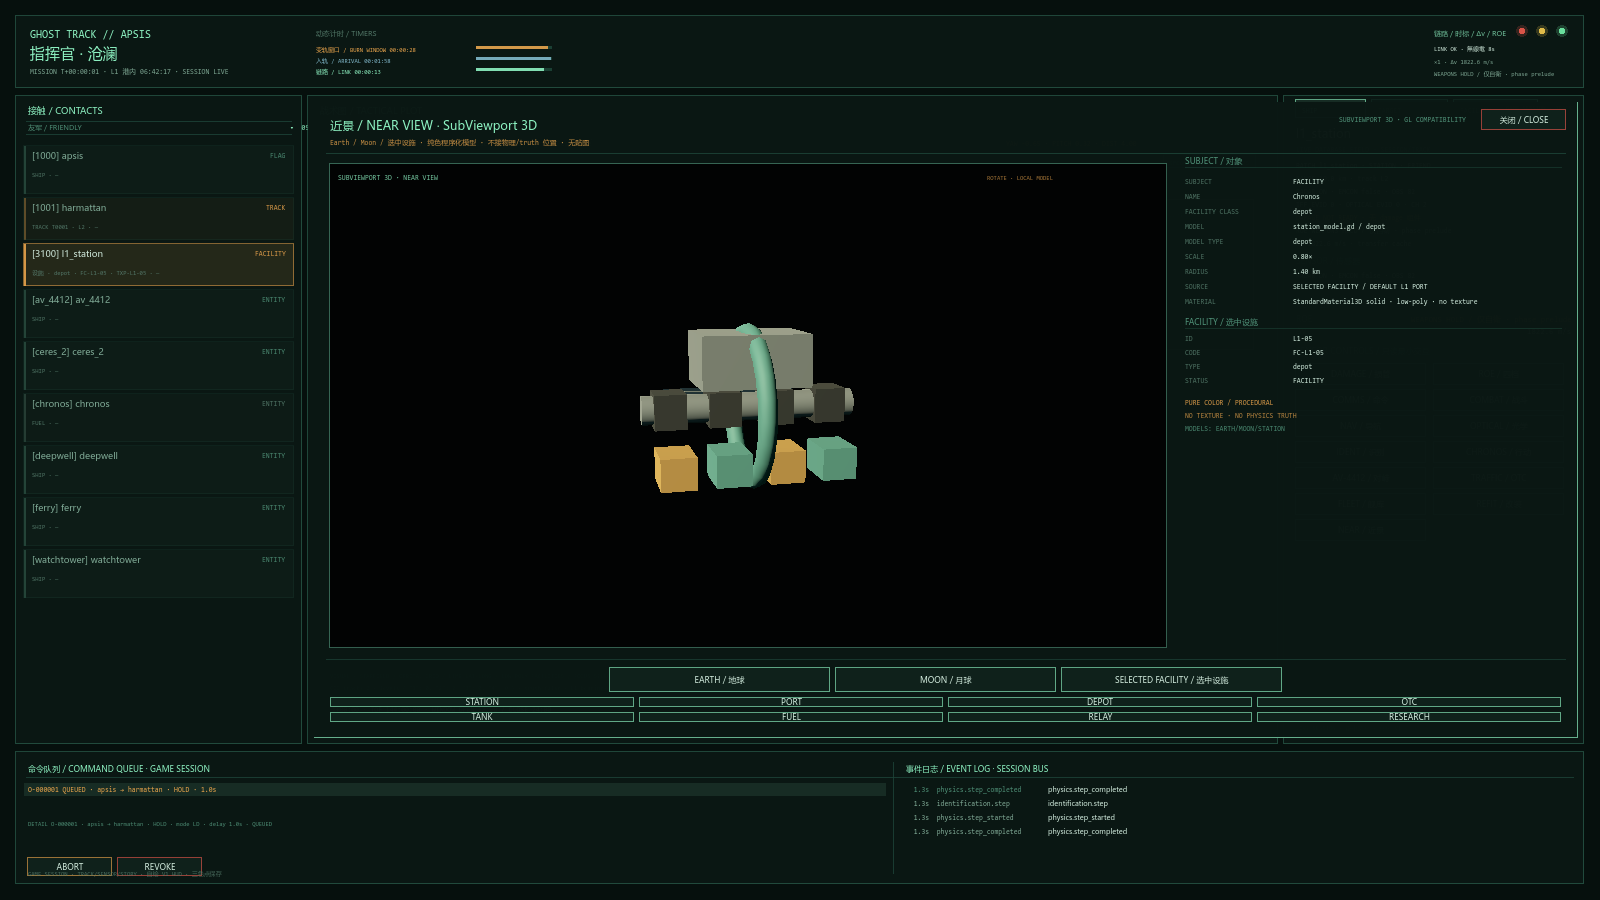
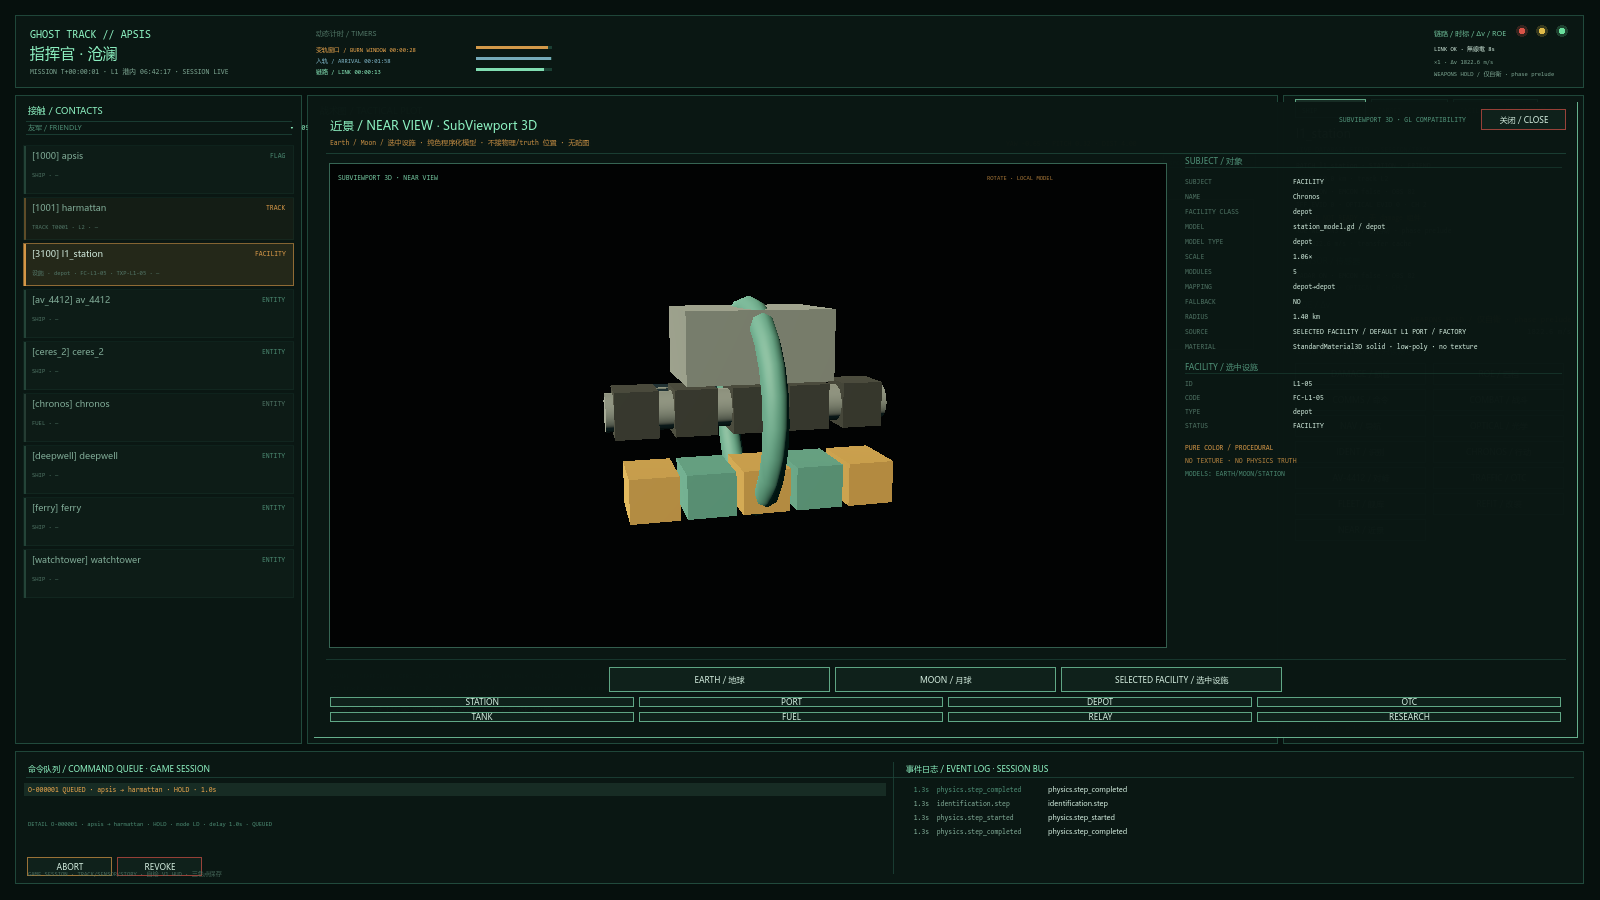
方案B-35：110设施3D模型工厂映射+near view接入

Changed region(s): [[0.375, 0.3111, 0.5625, 0.5911], [0.7188, 0.3111, 0.9062, 0.5289], [0.7188, 0.3422, 0.7812, 0.3733]]

diff --git a/game_v17/docs/facility_models.md b/game_v17/docs/facility_models.md
@@ -1,0 +1,50 @@
+# 设施 3D 模型映射 / FACILITY MODEL FACTORY（方案B-35 task-211）
+
+## 文件
+
+- `scripts/ui/facility_model_factory.gd`：FacilityRegistry/facility dict → station_model 基型。
+- `tests/facility_model_probe.gd`：110 设施逐一探针（300+ 检查）。
+- `scripts/ui/near_view.gd`：NEAR VIEW 改用 factory。
+- 数据：`framework/content/facilities_system.json`（29 base + 19 OTC + 62 fuel = 110）。
+
+## 映射表
+
+| facility_class | station_model 基型 | 说明 |
+|---|---|---|
+| station | port | 港/站点基型 |
+| port | port | 港口 |
+| depot | depot | 仓库/补给站 |
+| otc | otc | OTC 交通管制卫星（碟形+环+板） |
+| tank | tank | 储罐 |
+| fuel | fuel | 加注/燃料区 |
+| relay | otc | 中继（OTC 类基型） |
+| research | research | 研究环 |
+| commercial / logistics / industrial / shipyard / observation / residential / agricultural / water_utility / salvage / food_processing / cultural / tourism | port/depot/tank/research/port | 内容其他 class 的基型映射 |
+
+未知 class：fallback `port`，metadata `facility_model_fallback=true`，并在描述中标注 `→fallback/port`；不伪装为独立美术。
+
+## 尺度 / 模块
+
+- `scale = base_scale(model_type) × clamp(0.82 + ln(1+radius_km)×0.22, 0.82, 1.35)`，clamp 0.55..1.65。
+- base_scale：port 1.15、depot 1.05、otc 0.82、tank 0.72、fuel 0.78、research 0.92。
+- `module_count = base_modules + int(min(3,radius_km))`，clamp 2..8。
+- 300+ probe 验证 scale/module 范围、模型非空、meta、确定性。
+
+## Probe 结果（headless）
+
+- Registry：total=110（base 29 + OTC 19 + fuel 62）。
+- Mapped=110，classes=20；model buckets：port 12、depot 8、otc 21、research 4、tank 34、fuel 31。
+- `checks=1697 fails=0 fallbacks=0`；“unknown class fallback”独立测试通过。
+- 命令：`--headless --path game_v17 --script res://tests/facility_model_probe.gd`；退出码 0。
+
+## NEAR VIEW 接入
+
+- NEAR VIEW 选中设施时用 `FacilityModelFactory.create(facility)`；info 显示 SCALE/MODULES/MAPPING/FALLBACK。
+- 无选中设施默认 L1 PORT；Earth/Moon 仍走 planet 模型；8 类按钮切换使用同一 factory。
+- 截图重截：`mockups/v1-hud-nearview-facility-1920.png`（Chronos/depot，mapping depot→depot）；1600 布局 `v1-hud-nearview-1600.png`。
+
+## 边界
+
+- 全部设施共享 6 个基型，不是每设施独立美术网格；纯色 StandardMaterial3D、无贴图。
+- 近景为只读 UI 展示；不读 truth 位置、不写 world/physics/session。
+- 待未来替换：独立高模/贴图/LOD；保留 factory API 即可切换。

diff --git a/game_v17/docs/ui_v1.md b/game_v17/docs/ui_v1.md
@@ -1395,3 +1395,22 @@ F5 PROBE RESULT: PASS
 1. 低模基础材质，非最终贴图美术；SubViewport 为局部展示。
 2. 不接物理/truth 位置，不写 world/session。
 3. 未跑全量 regression。
+
+
+---
+
+## 39　方案B-35：全部设施 3D 模型映射（task-211）
+
+- 新增 `scripts/ui/facility_model_factory.gd`：`mapping_for_class/supports/describe/create/summary/mapping_table`。
+- 110 设施（29 base + 19 OTC + 62 fuel）映射到 6 个 station_model 基型；20 个 facility_class；未知 class 明确 fallback 并标注。
+- scale 由 class + physical.radius_km 推导；module_count 由 class + radius 推导；probe 校验范围/确定性/JSON。
+- near_view 改用 factory；info 增加 SCALE/MODULES/MAPPING/FALLBACK；选中设施（Chronos/depot）重截。
+- 探针：`tests/facility_model_probe.gd`，`checks=1697 fails=0 fallbacks=0`，110/110 映射。
+- 截图重截 `mockups/v1-hud-nearview-facility-1920.png`；1600 布局 `v1-hud-nearview-1600.png`。
+- 详细映射见 `docs/facility_models.md`。
+
+### 边界
+
+1. 6 基型覆盖全部设施，非每设施独立网格；无贴图。
+2. UI 只读；不读 truth、不写 world/physics。
+3. 未跑全量 regression。

diff --git a/docs/43_开发待办清单.md b/docs/43_开发待办清单.md
@@ -148,3 +148,5 @@
 | 舰队数据库/改装UI | done | 阶段5 | 36型数据库/30模块改装/quote-commit-tick |
 
 | V1 HUD近景3D | done | 阶段5 | Earth/Moon/8类设施/SubViewport |
+
+| 全部设施3D映射 | done | 阶段5 | 110设施→6基型/20class/factory |
